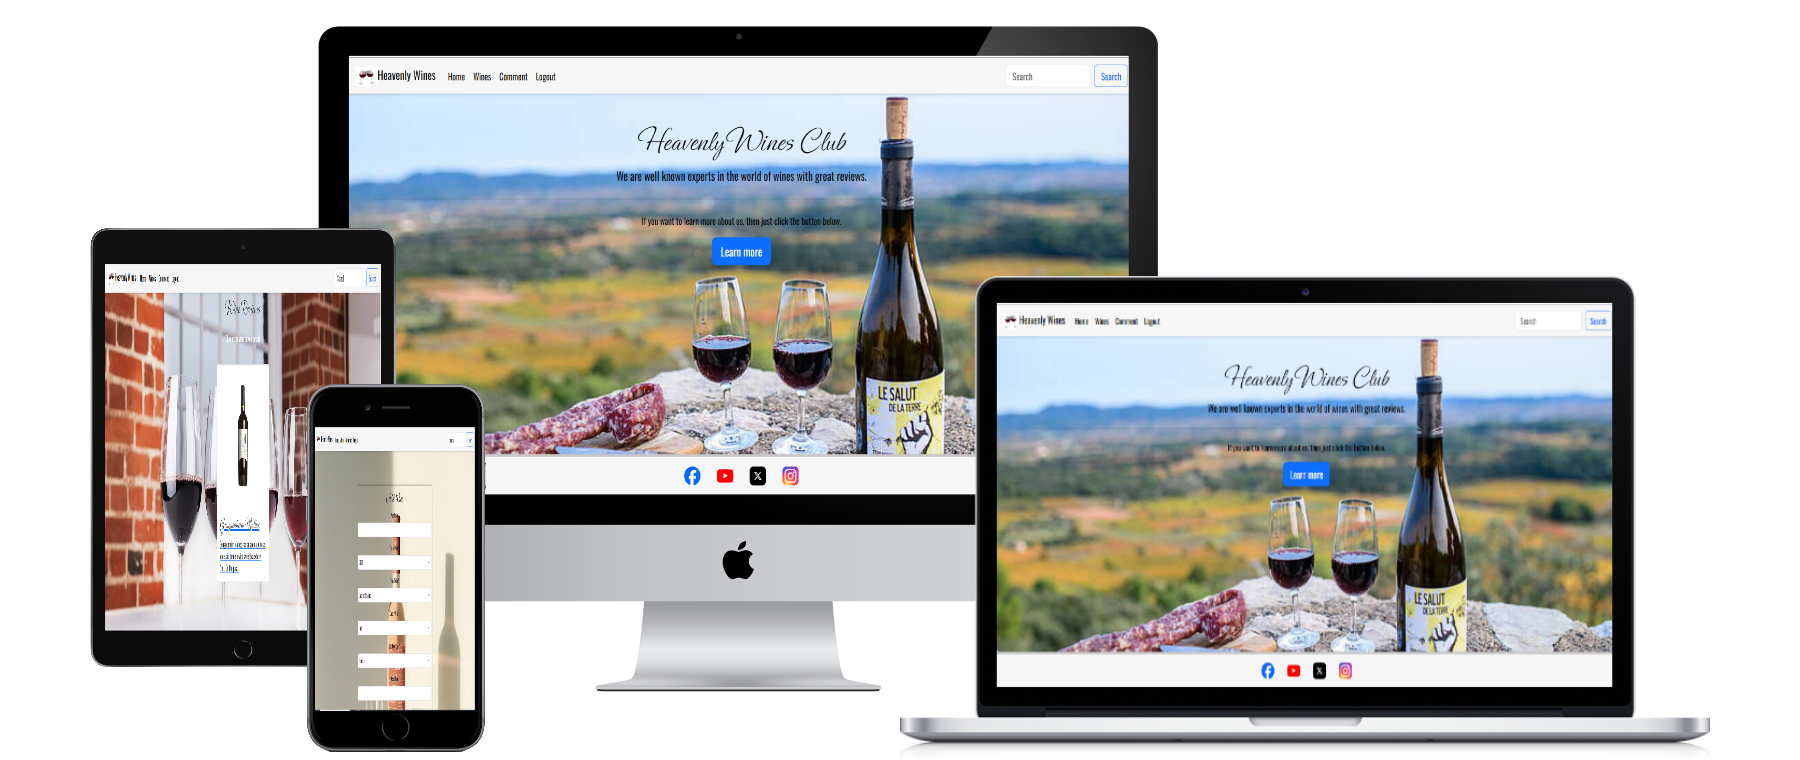
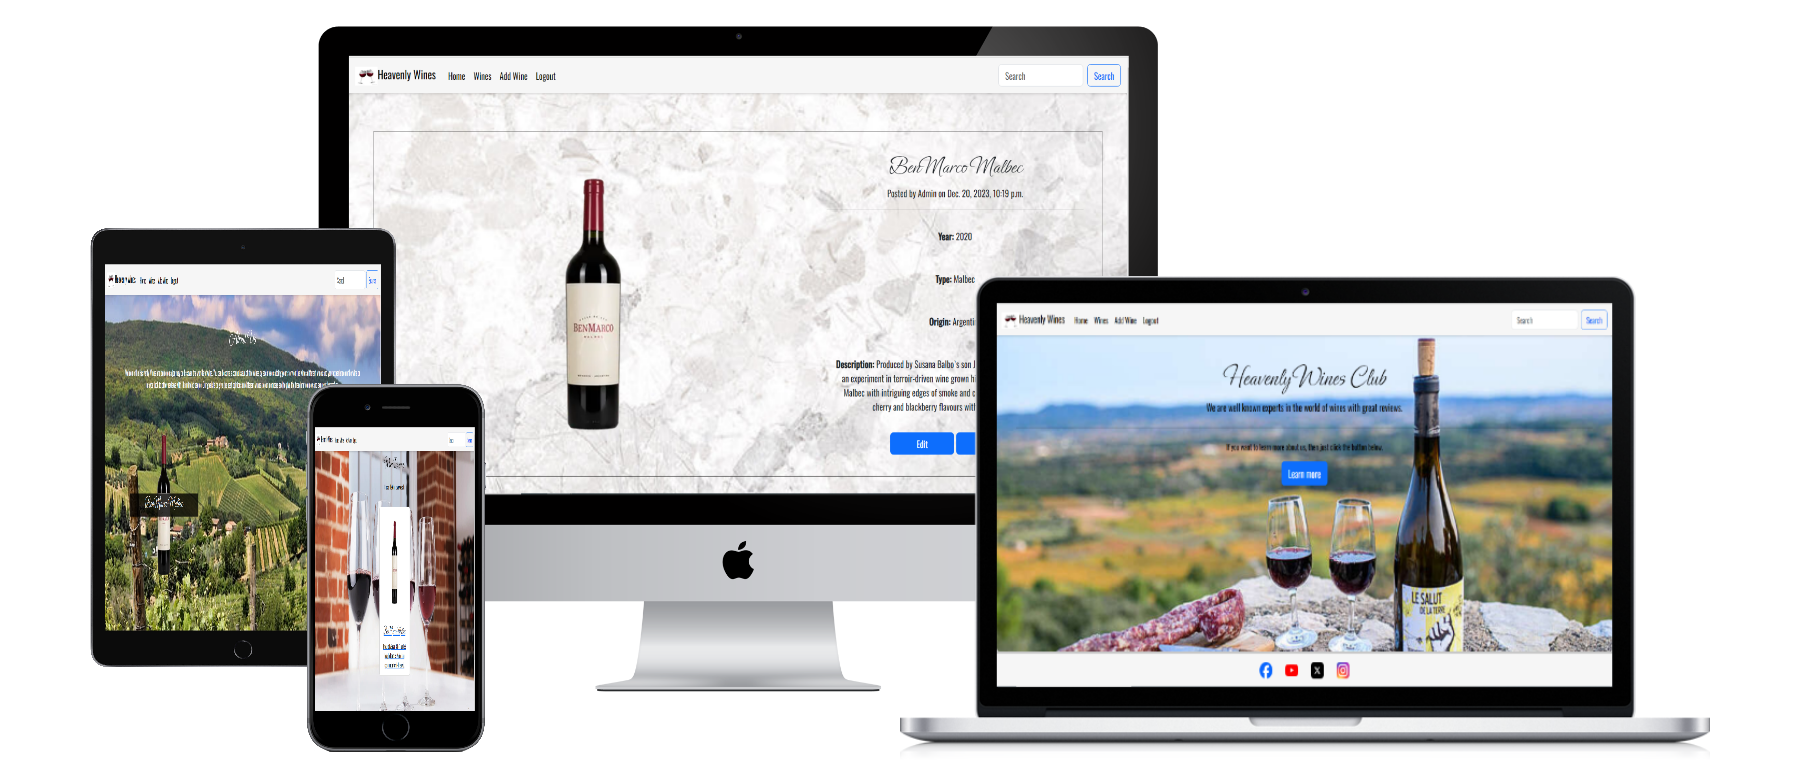
Add live link and edit device images in Readme

diff --git a/README.md b/README.md
@@ -1,11 +1,14 @@
 # Heavenly Wines
 
 Heavenly Wines is a wine club where we select three different types of wines each week to be reviewed on the website and leave comments, so you can enjoy this experience from your home. This help's educate a normal person to become experts over time in their knowledge of the wines in the world.
+
+This link is the live version of Heavenly Wines (https://heavenly-wines-blog-da6c1e3dc8d4.herokuapp.com)
+
 ![Mockups](static/images/hw-devices.png)
 
-## UX
+# UX
 
-# Database Structure
+## Database Structure
 
 - Database Schema
 
@@ -42,7 +45,7 @@ Agile Overview
 
 The project is created along side the GITHUB repository to create milestone and issues that are A MUST HAVE in the projects. To keep track of what needs to be implemented within the project, a bit like building blocks along the way with different elements required to have a fully working website.
 
-![User Stories](https://github.com/users/firefox35/projects/16/views/1)
+[User Stories](https://github.com/users/firefox35/projects/16)
 
 User stories
 
@@ -83,6 +86,9 @@ Account Restrictions
 
 Website Features
 
+- Search bar
+  
+  
 ## Site Wide
 
 Header
